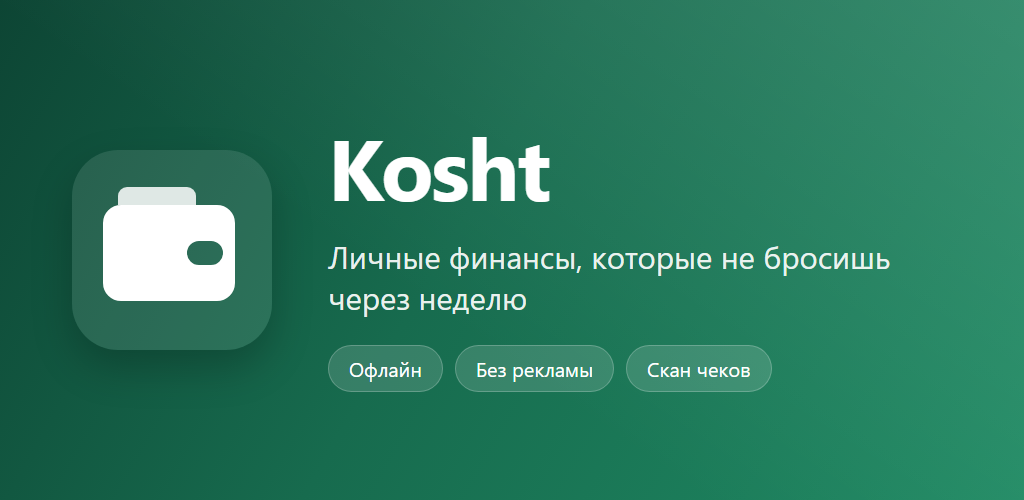
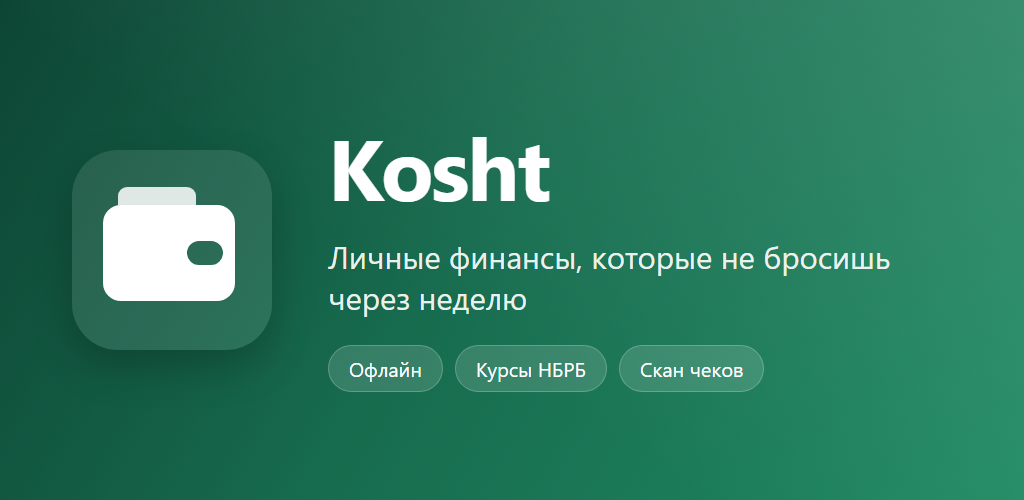
Drop the no-ads claim from store copy and the privacy policy
Advertising may be added later, and a promise printed in the listing or
the policy would have to be walked back. The wording now leans on what
stays true either way: offline, no accounts, no cloud, nothing collected.
The feature graphic swaps that chip for the National Bank rates.

Changed region(s): [[0.4688, 0.69, 0.7812, 0.78]]

diff --git a/docs/privacy.html b/docs/privacy.html
@@ -27,8 +27,8 @@ stays in the app's private storage on your device.</p>
 <p>Transactions, categories, accounts, debts, savings, goals, challenges, awards,
 receipt photos and settings are written to a local database and to the app's private
 files directory on your phone. This data never leaves the device: there is no account,
-no sign-in, no cloud sync, no analytics SDK, no advertising SDK and no crash reporting.
-Uninstalling the app deletes all of it.</p>
+no sign-in, no cloud sync, no analytics SDK and no crash reporting. Uninstalling the
+app deletes all of it.</p>
 
 <h2>Network requests</h2>
 <p>Kosht works fully offline. It only reaches the network in three cases, and none of
@@ -54,8 +54,8 @@ them sends your financial data anywhere:</p>
 </ul>
 
 <h2>Children</h2>
-<p>The app is a personal finance tracker with no user-generated content, no social
-features and no ads. It is not directed at children under 13.</p>
+<p>The app is a personal finance tracker with no user-generated content and no social
+features. It is not directed at children under 13.</p>
 
 <h2>Changes</h2>
 <p>If this policy ever changes, the updated version will be published at this address
@@ -76,7 +76,7 @@ together with a new date at the top.</p>
 <p>Операции, категории, счета, долги, накопления, цели, испытания, награды, фото чеков
 и настройки записываются в локальную базу данных и приватную папку приложения на
 телефоне. Эти данные никуда не отправляются: нет аккаунта, входа, облачной
-синхронизации, аналитики, рекламы и сбора крашей. Удаление приложения удаляет всё.</p>
+синхронизации, аналитики и сбора крашей. Удаление приложения удаляет всё.</p>
 
 <h2>Сетевые запросы</h2>
 <p>Приложение работает полностью офлайн и обращается к сети только в трёх случаях,
@@ -102,8 +102,8 @@ together with a new date at the top.</p>
 </ul>
 
 <h2>Дети</h2>
-<p>Приложение — личный финансовый трекер без пользовательского контента, социальных
-функций и рекламы. Оно не предназначено для детей младше 13 лет.</p>
+<p>Приложение — личный финансовый трекер без пользовательского контента и социальных
+функций. Оно не предназначено для детей младше 13 лет.</p>
 
 <h2>Изменения</h2>
 <p>Если политика изменится, новая версия будет опубликована по этому же адресу с новой

diff --git a/docs/store/feature.html b/docs/store/feature.html
@@ -45,7 +45,7 @@
     <p>Личные финансы, которые не бросишь<br>через неделю</p>
     <div class="chips">
       <span class="chip">Офлайн</span>
-      <span class="chip">Без рекламы</span>
+      <span class="chip">Курсы НБРБ</span>
       <span class="chip">Скан чеков</span>
     </div>
   </div>

diff --git a/docs/store/listing-ru.md b/docs/store/listing-ru.md
@@ -11,14 +11,14 @@ Kosht — учёт расходов
 ## Краткое описание (до 80 символов)
 
 ```
-Личные финансы офлайн: траты, счета, курсы НБРБ, скан чеков. Без рекламы.
+Личные финансы офлайн: траты, счета, курсы НБРБ и скан чеков прямо на телефоне.
 ```
 
 ## Полное описание (до 4000 символов)
 
 ```
 Kosht — личный финансовый трекер, который не бросишь через неделю. Всё работает
-офлайн, данные остаются на телефоне: ни аккаунтов, ни подписок, ни рекламы.
+офлайн, данные остаются на телефоне: ни аккаунтов, ни подписок, ни облака.
 
 ⚡ Запись за секунды
 Калькулятор открывается сразу при добавлении: набрали «12,50+3,90», нажали
@@ -77,12 +77,12 @@ Kosht — личный финансовый трекер, который не б
 Первый публичный релиз Kosht: учёт трат с калькулятором, офлайн-скан чеков,
 мультисчета, статистика с настраиваемым отчётом за неделю/месяц/квартал/год, курсы
 НБРБ, долги, цели и накопления, регулярные платежи с подтверждением, 18 наград и
-ненавязчивые уведомления. Всё офлайн, без рекламы и аккаунтов.
+ненавязчивые уведомления. Всё офлайн и без аккаунтов.
 ```
 
 ## Категория и теги
 
 - Категория: **Финансы** (Finance)
 - Теги: бюджет, расходы, финансы, учёт денег, накопления
-- Контент-рейтинг: 3+ / Everyone (нет пользовательского контента, рекламы и покупок)
+- Контент-рейтинг: 3+ / Everyone (нет пользовательского контента и покупок)
 - Безопасность данных: **данные не собираются и не передаются**

diff --git a/docs/store/listing-en.md b/docs/store/listing-en.md
@@ -11,14 +11,14 @@ Kosht — Expense Tracker
 ## Short description (80 chars max)
 
 ```
-Offline personal finance: spending, accounts, live FX, receipt scan. No ads.
+Offline personal finance: spending, accounts, live FX and receipt scanning.
 ```
 
 ## Full description (4000 chars max)
 
 ```
 Kosht is a personal finance tracker you will actually keep using. Everything works
-offline and stays on your phone: no accounts, no subscriptions, no ads.
+offline and stays on your phone: no accounts, no subscriptions, no cloud.
 
 ⚡ Log spending in seconds
 The calculator opens the moment you add a record: type "12.50+3.90", hit Apply, and
@@ -76,12 +76,12 @@ National Bank rates and, when you tap it, for an update check.
 First public release of Kosht: spending with a built-in calculator, offline receipt
 scanning, multiple accounts, statistics with a configurable week/month/quarter/year
 report, National Bank rates, debts, goals and savings, recurring payments you confirm
-yourself, 18 awards and quiet notifications. All offline, no ads, no accounts.
+yourself, 18 awards and quiet notifications. All offline, no accounts.
 ```
 
 ## Category and tags
 
 - Category: **Finance**
 - Tags: budget, expenses, finance, money tracker, savings
-- Content rating: Everyone / 3+ (no user content, no ads, no purchases)
+- Content rating: Everyone / 3+ (no user content, no purchases)
 - Data safety: **no data collected, no data shared**

diff --git a/README.md b/README.md
@@ -2,7 +2,7 @@
 
 **Track spending in seconds. See where your money goes. Actually save.**
 
-Kosht is a beautifully crafted personal finance app for Android that turns money tracking from a chore into a habit you'll enjoy. No accounts, no subscriptions, no ads — your data never leaves your phone.
+Kosht is a beautifully crafted personal finance app for Android that turns money tracking from a chore into a habit you'll enjoy. No accounts, no subscriptions, no cloud — your data never leaves your phone.
 
 ---
 
